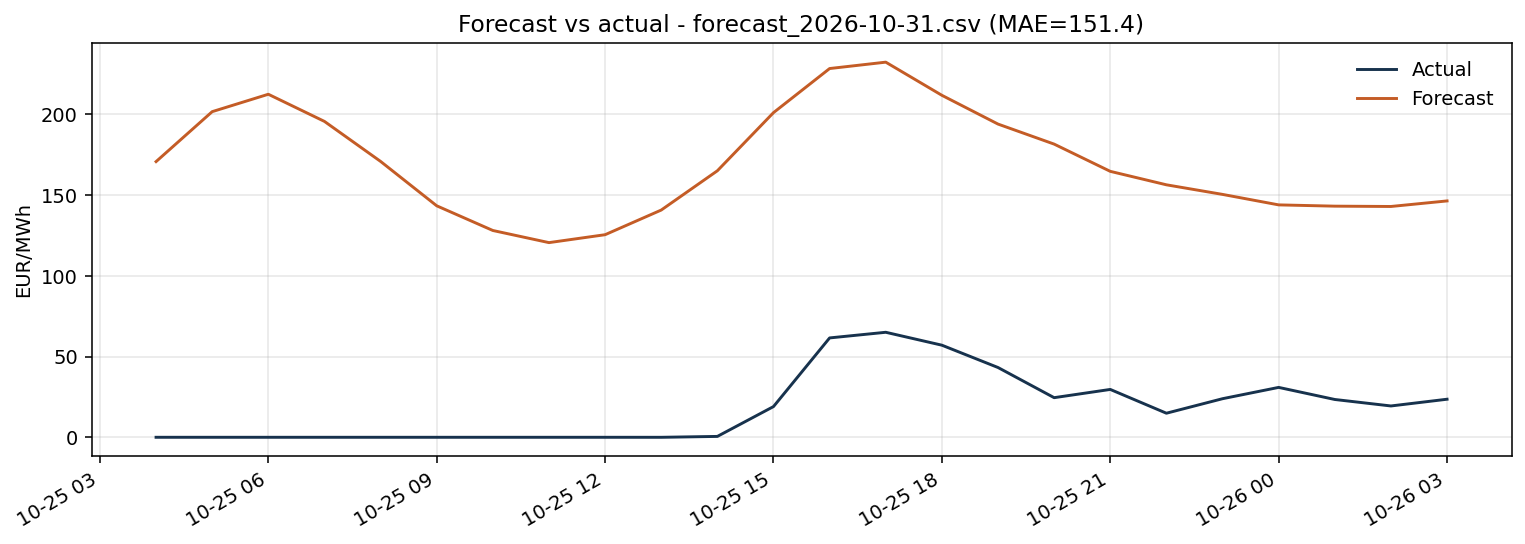
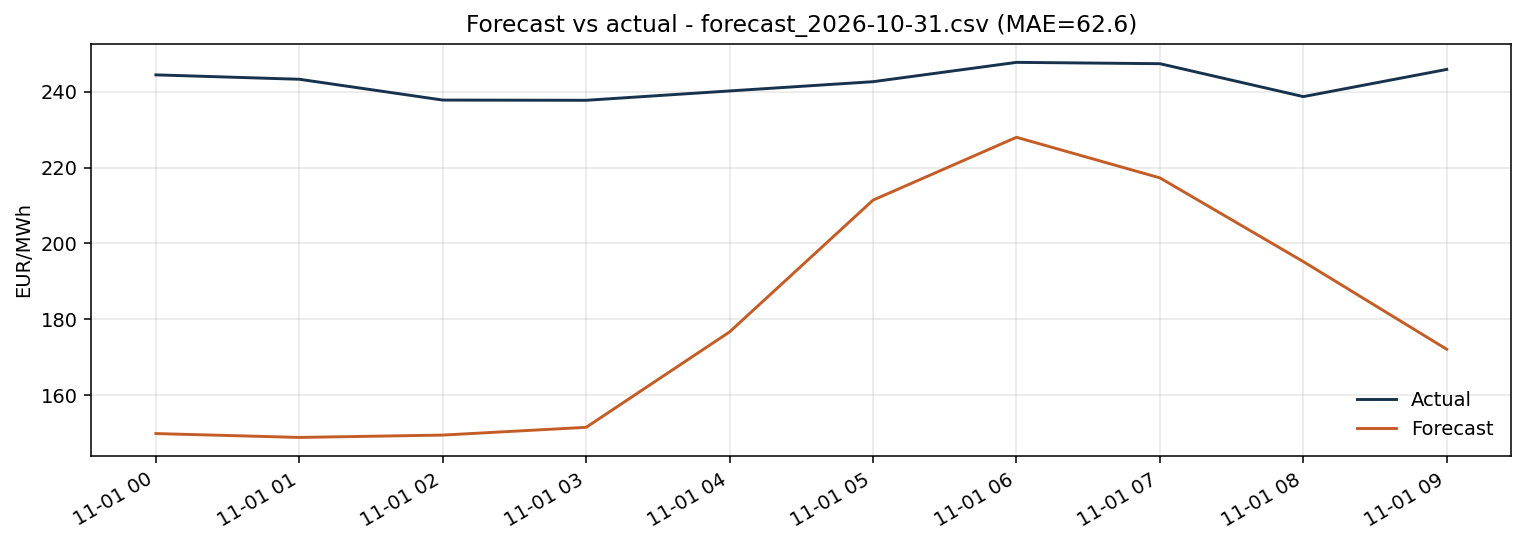
chore: daily forecast update

diff --git a/README.md b/README.md
@@ -195,9 +195,9 @@ Licence: MIT (code). Underlying market data remain subject to their original lic
 
 ## Live daily forecast
 
-**Generated (UTC):** 2026-10-31 23:09  
-**Based on data up to (UTC):** 2026-10-31 23:00  
-**Forecast horizon (UTC):** 2026-11-01 00:00 to 2026-11-01 23:00  
+**Generated (UTC):** 2026-11-01 09:23  
+**Based on data up to (UTC):** 2026-11-01 09:00  
+**Forecast horizon (UTC):** 2026-11-01 10:00 to 2026-11-02 09:00  
 **Protocol:** Conservative (external_shift = 24)
 
 ### Forecast chart
@@ -208,34 +208,36 @@ Licence: MIT (code). Underlying market data remain subject to their original lic
 
 | Hour (UTC) | Forecast (EUR/MWh) |
 |------------|--------------------|
-| 2026-11-01 00:00 | 149.82 |
-| 2026-11-01 01:00 | 148.80 |
-| 2026-11-01 02:00 | 149.42 |
-| 2026-11-01 03:00 | 151.47 |
-| 2026-11-01 04:00 | 176.65 |
-| 2026-11-01 05:00 | 211.42 |
-| 2026-11-01 06:00 | 228.00 |
-| 2026-11-01 07:00 | 217.29 |
-| 2026-11-01 08:00 | 195.19 |
-| 2026-11-01 09:00 | 172.06 |
-| 2026-11-01 10:00 | 155.24 |
-| 2026-11-01 11:00 | 147.26 |
-| 2026-11-01 12:00 | 153.27 |
-| 2026-11-01 13:00 | 169.21 |
-| 2026-11-01 14:00 | 193.27 |
-| 2026-11-01 15:00 | 228.13 |
-| 2026-11-01 16:00 | 254.87 |
-| 2026-11-01 17:00 | 256.87 |
-| 2026-11-01 18:00 | 237.09 |
-| 2026-11-01 19:00 | 217.16 |
-| 2026-11-01 20:00 | 204.71 |
-| 2026-11-01 21:00 | 186.93 |
-| 2026-11-01 22:00 | 164.81 |
-| 2026-11-01 23:00 | 159.94 |
+| 2026-11-01 10:00 | 160.02 |
+| 2026-11-01 11:00 | 152.99 |
+| 2026-11-01 12:00 | 159.75 |
+| 2026-11-01 13:00 | 174.85 |
+| 2026-11-01 14:00 | 195.48 |
+| 2026-11-01 15:00 | 231.60 |
+| 2026-11-01 16:00 | 253.98 |
+| 2026-11-01 17:00 | 260.35 |
+| 2026-11-01 18:00 | 239.33 |
+| 2026-11-01 19:00 | 221.56 |
+| 2026-11-01 20:00 | 205.82 |
+| 2026-11-01 21:00 | 187.79 |
+| 2026-11-01 22:00 | 164.95 |
+| 2026-11-01 23:00 | 161.98 |
+| 2026-11-02 00:00 | 154.72 |
+| 2026-11-02 01:00 | 152.97 |
+| 2026-11-02 02:00 | 153.35 |
+| 2026-11-02 03:00 | 154.31 |
+| 2026-11-02 04:00 | 179.09 |
+| 2026-11-02 05:00 | 214.74 |
+| 2026-11-02 06:00 | 232.49 |
+| 2026-11-02 07:00 | 222.54 |
+| 2026-11-02 08:00 | 199.56 |
+| 2026-11-02 09:00 | 178.44 |
 
 ### Previous forecasts vs realized prices
 
-_No overlapping actual prices yet for previous forecasts._
+| Forecast file | Hours scored | MAE | RMSE |
+|---------------|--------------|-----|------|
+| `forecast_2026-10-31.csv` | 10 | 62.60 | 68.42 |
 
 ![Forecast vs actual](outputs/figures/latest_vs_actual.png)
 
